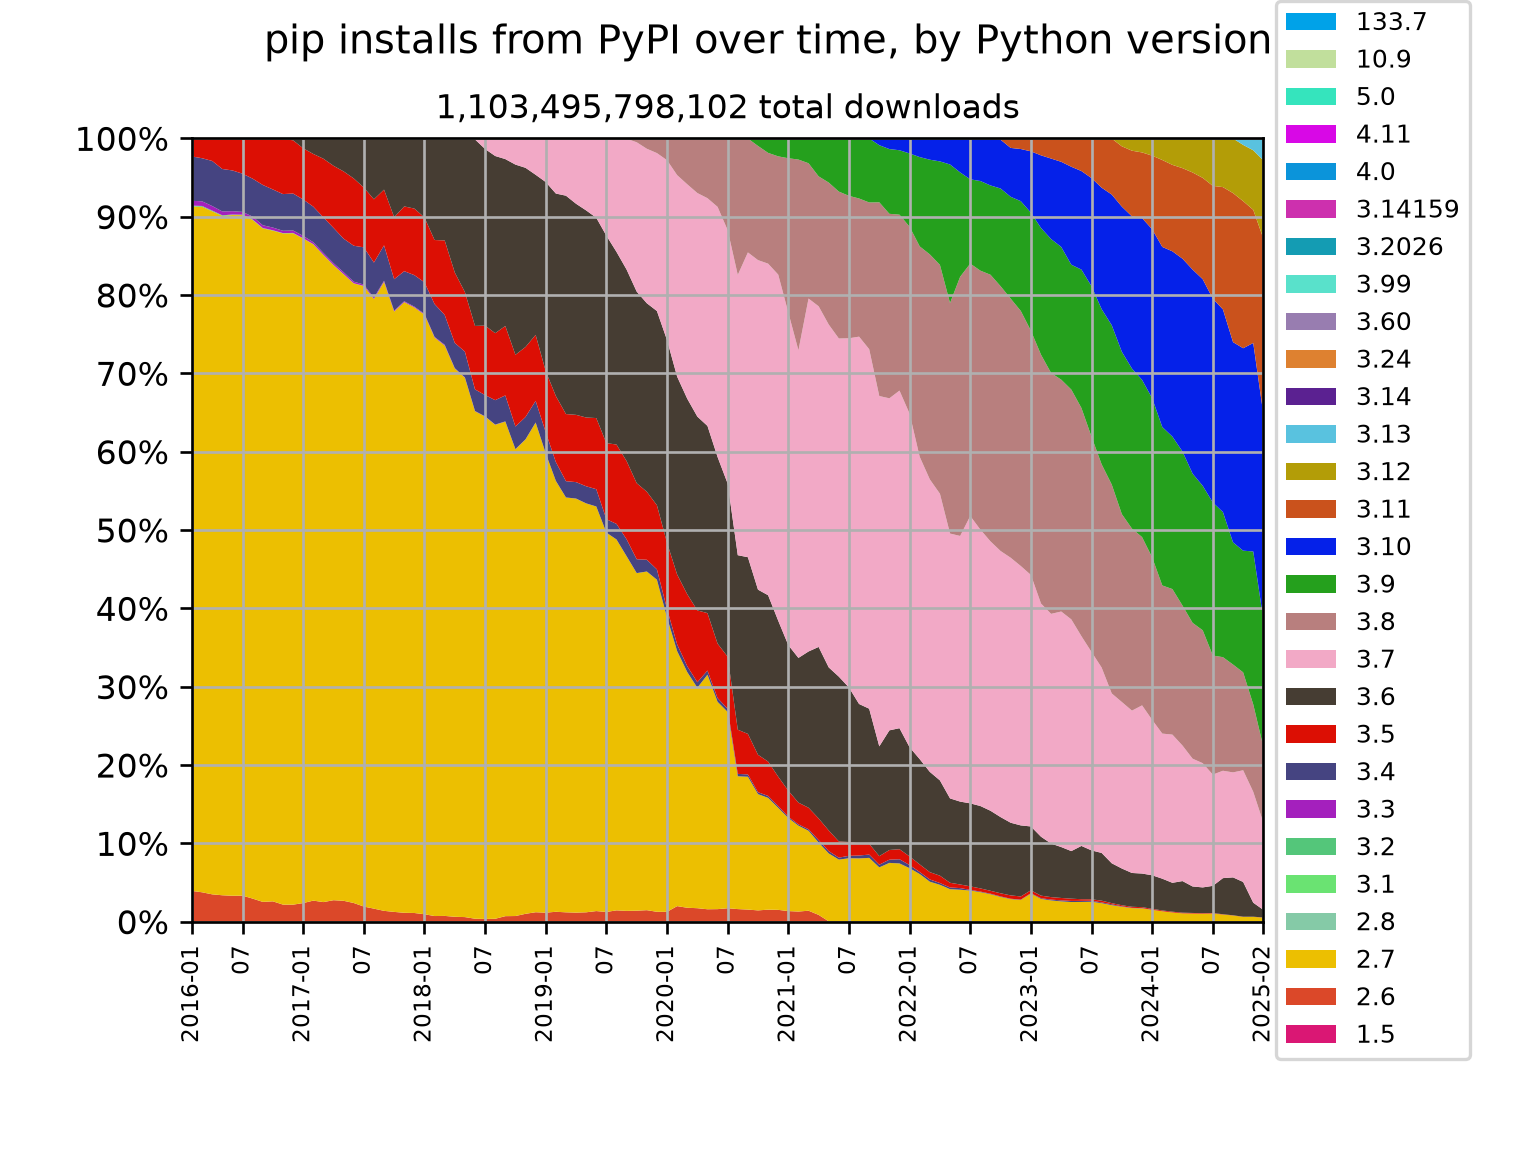
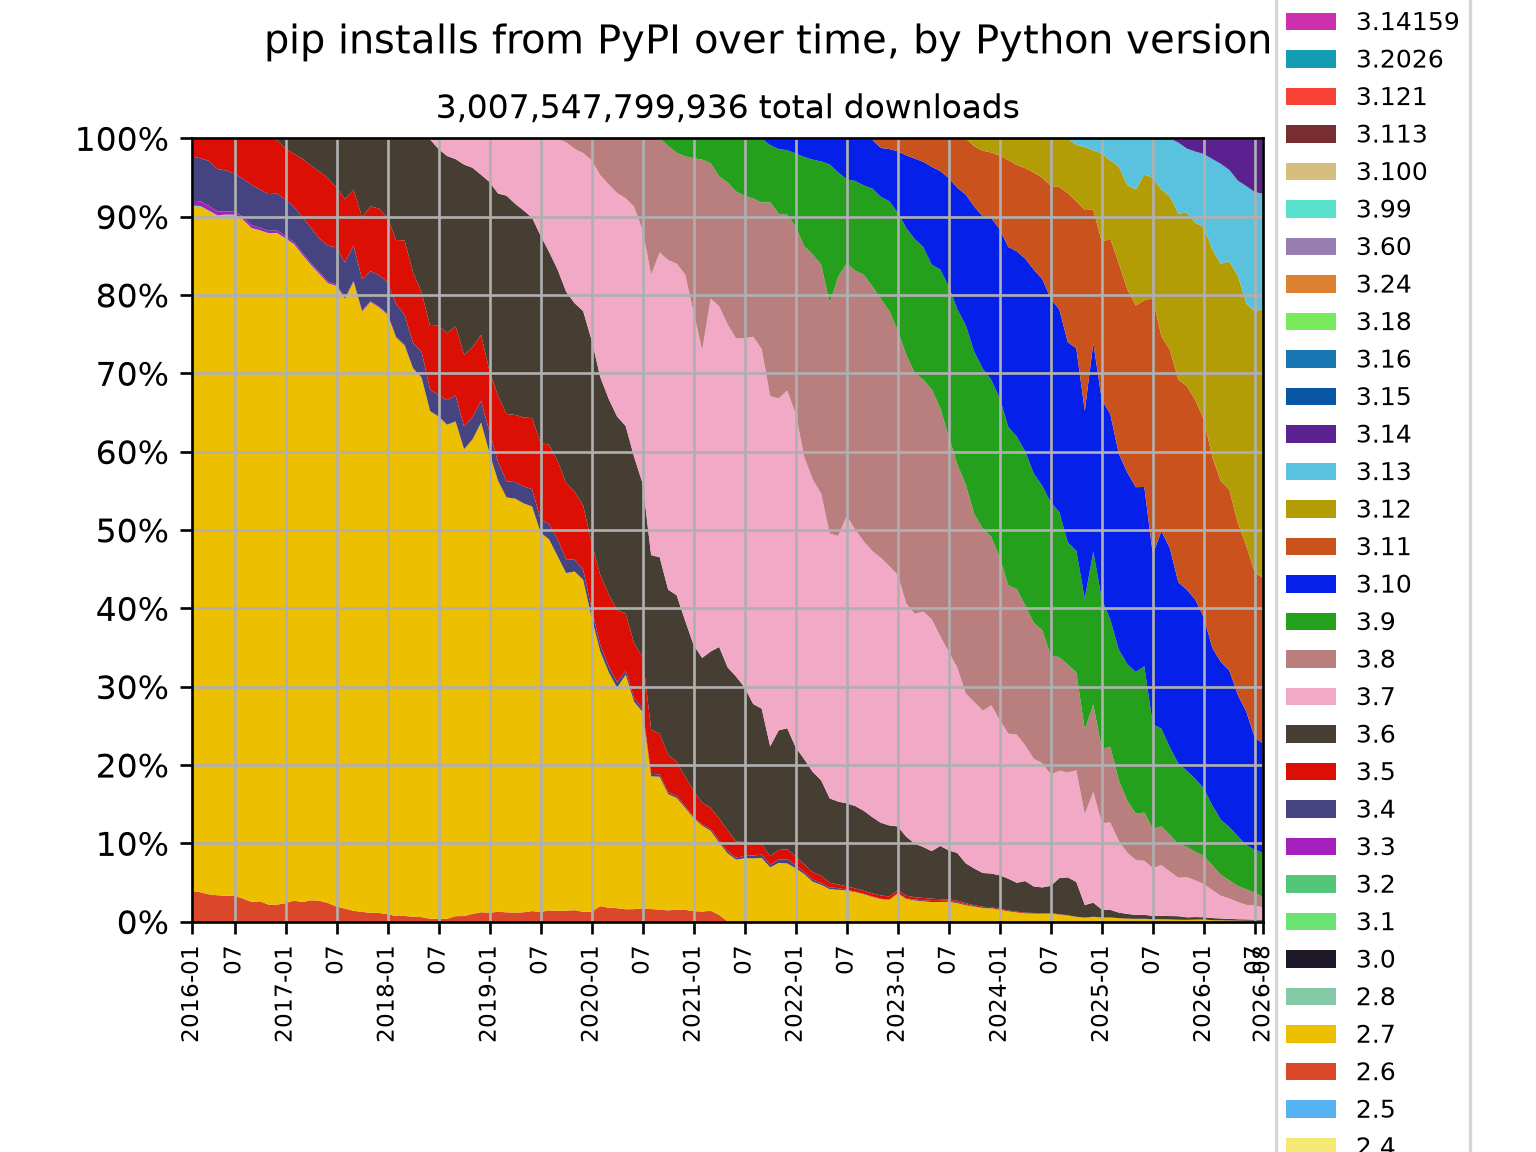
Get data for all from ClickHouse

Changed region(s): [[0.125, 0.0, 0.9688, 1.0], [0.7188, 0.8438, 0.7812, 0.9062]]

diff --git a/pypi-trends.py b/pypi-trends.py
@@ -11,6 +11,11 @@ Alternatively, requires pypistats to be installed
 (note: only has 6 months of stats and output JSON is a different format)
 * pip install -U pypistats
 
+Alternatively, use --clickpy to query ClickPy's public ClickHouse mirror of the
+PyPI downloads dataset: free, no auth or installation needed, full history
+(note: absolute counts differ slightly from BigQuery's, percentages match)
+* https://clickpy.clickhouse.com/
+
 Notes:
     "Data ingestion into the BigQuery data set was spotty prior to June 2016
     (but it shouldn't be biased, so these percentages are likely to be accurate),
@@ -23,14 +28,69 @@ from __future__ import annotations
 
 import argparse
 import datetime as dt
+import json
 import os
 import subprocess
 import sys
+import urllib.request
 
 from dateutil.relativedelta import relativedelta  # pip install python-dateutil
 from termcolor import colored, cprint  # pip install termcolor
 
 now = dt.date.today()
+
+CLICKPY_URL = "https://sql-clickhouse.clickhouse.com/?user=demo"
+
+
+def clickpy_query(package: str, first: dt.date, last: dt.date) -> str:
+    """Build SQL for downloads by Python minor version, in pypinfo's pyversion shape"""
+    # Filter out junk versions from broken user agents such as "Sure.0", "3.11BYHW"
+    where = (
+        f"date BETWEEN '{first}' AND '{last}' "
+        "AND (python_minor = '' OR match(python_minor, '^[0-9]+\\.[0-9]+$'))"
+    )
+    if package:
+        escaped = package.replace("\\", "\\\\").replace("'", "\\'")
+        where += f" AND project = '{escaped}'"
+    return (
+        "SELECT if(python_minor = '', 'None', python_minor) AS python_version, "
+        "sum(count) AS download_count "
+        "FROM pypi.pypi_downloads_per_day_by_version_by_python "
+        f"WHERE {where} "
+        "GROUP BY python_version ORDER BY download_count DESC LIMIT 100 "
+        "FORMAT JSON"
+    )
+
+
+def fetch_clickpy(query: str, outfile: str) -> None:
+    """Run query against ClickPy and save results in pypinfo-style JSON"""
+    request = urllib.request.Request(CLICKPY_URL, data=query.encode())
+    with urllib.request.urlopen(request) as response:
+        result = json.load(response)
+
+    rows = [
+        {
+            # ClickHouse quotes Int64 values in JSON output
+            "download_count": int(row["download_count"]),
+            "python_version": row["python_version"],
+        }
+        for row in result["data"]
+    ]
+    if not rows:
+        msg = "No data returned"
+        raise ValueError(msg)
+
+    total = sum(row["download_count"] for row in rows)
+    for row in rows:
+        row["percent"] = f"{row['download_count'] / total:.2g}"
+
+    output = {
+        "last_update": dt.datetime.now().strftime("%Y-%m-%d %H:%M:%S"),
+        "query": {"source": CLICKPY_URL, "sql": query},
+        "rows": rows,
+    }
+    with open(outfile, "w") as f:
+        json.dump(output, f, separators=(",", ":"))
 
 
 # https://stackoverflow.com/a/5734564/724176
@@ -107,12 +167,19 @@ def main():
     parser.add_argument(
         "-n", "--dry-run", action="store_true", help="Don't execute pypinfo/pypistats"
     )
-    parser.add_argument(
+    source_group = parser.add_mutually_exclusive_group()
+    source_group.add_argument(
         "--pypistats",
         action="store_true",
         help="Use pypistats instead of pypinfo. Note: only has "
         "6 months of stats, and output JSON is a different "
         "format.",
+    )
+    source_group.add_argument(
+        "--clickpy",
+        action="store_true",
+        help="Use ClickPy's public ClickHouse instance instead of pypinfo. "
+        "Free, no auth needed, full history.",
     )
     args = parser.parse_args()
 
@@ -157,6 +224,23 @@ def main():
         if os.path.isfile(outfile):
             cprint(f"  {outfile} exists, skipping", "yellow")
             yellows += 1
+            continue
+
+        if args.clickpy:
+            package = "" if args.package in ['""', "''"] else args.package
+            query = clickpy_query(package, first, last)
+            print(query)
+            if args.dry_run:
+                print("  Dry run, not querying ClickPy")
+                continue
+            try:
+                fetch_clickpy(query, outfile)
+            except (OSError, ValueError) as e:
+                cprint(f"  {e}", "red")
+                reds += 1
+            else:
+                cprint(f"  {outfile}", "green")
+                greens += 1
             continue
 
         if args.pypistats:

diff --git a/README.md b/README.md
@@ -13,8 +13,9 @@ Command-line Python scripts to do things with the
 and [pypistats](https://github.com/hugovk/pypistats) to fetch all monthly downloads from
 the PyPI database on Google BigQuery and save them as JSON files.
 
-For the examples below, data was downloaded over many days as getting all months uses up
-a lot of free BigQuery quota.
+With `--clickpy`, it instead queries [ClickPy](https://clickpy.clickhouse.com/)'s
+public ClickHouse mirror of the PyPI downloads dataset: free, no auth needed, and a
+single month's all-PyPI query no longer exceeds the entire free BigQuery quota.
 
 ## jsons2img.py
 
